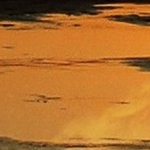
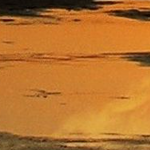
WIP

diff --git a/generate.go b/generate.go
@@ -33,7 +33,7 @@ func main() {
 
 			// Crop the image
 			x := ((i+1) * 76.0) + (i * 150.0)
-			y := 192.0 + (j * 150.0) + (j * 114.0)
+			y := 192.0 + (j * 150.0) + (j * 115.0)
 			cropArg := fmt.Sprintf("crop=150:150:%d:%d", x, y)
 			cmd = exec.Command("ffmpeg", "-i", "wallpaper_scaled.png", "-vf", cropArg, fileName)
 			var stderr bytes.Buffer
